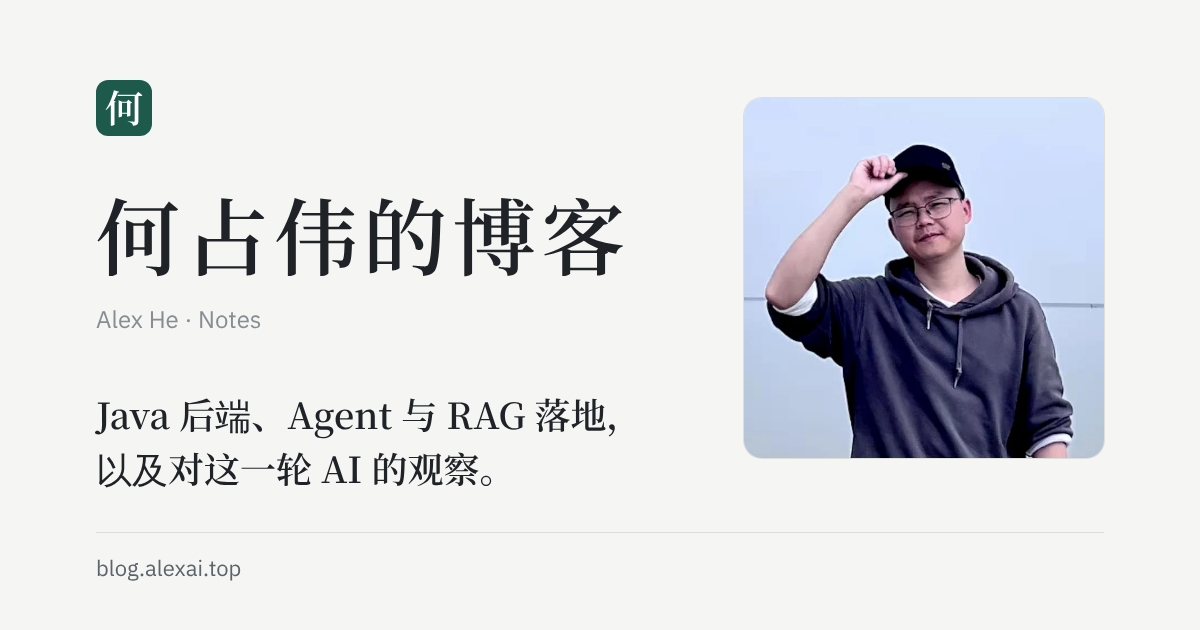
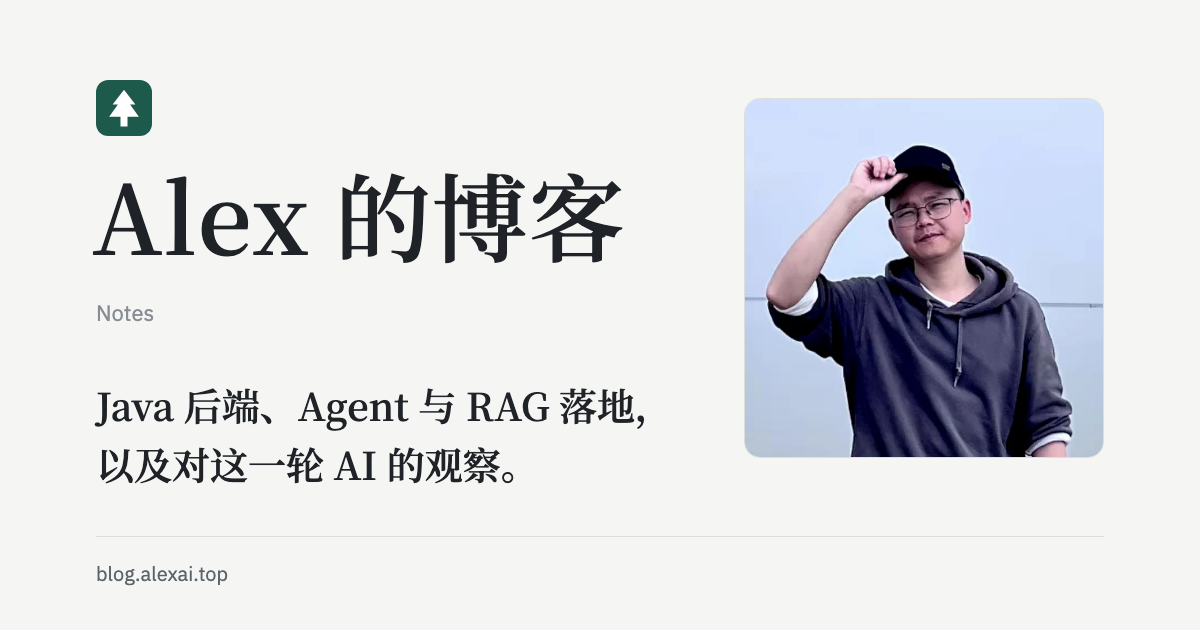
署名改为 Alex，字标换成云杉
- 站名改为「Alex 的博客」，页头、页脚、文末作者栏、RSS、meta 中的真实姓名改为 Alex
- 「何」字标换成与主站一致的云杉图形，重新生成 favicon、Apple 图标和分享图（照片保留）

diff --git a/src/pages/rss.xml.ts b/src/pages/rss.xml.ts
@@ -7,7 +7,7 @@ export async function GET(context: APIContext) {
     .sort((a, b) => b.data.pubDate.getTime() - a.data.pubDate.getTime());
 
   return rss({
-    title: "何占伟的博客",
+    title: "Alex 的博客",
     description: "Java 后端、Agent 与 RAG 落地，以及一个老程序员对这一轮 AI 的观察。",
     site: context.site || "https://blog.alexai.top",
     items: posts.map((post) => ({

diff --git a/AGENTS.md b/AGENTS.md
@@ -1,6 +1,6 @@
 # alex-blog-site
 
-Alex（何占伟）的博客 https://blog.alexai.top 。写文章、开发、发布见 `README.md`；当前状态见 `.ai/NOW.md`。
+Alex 的博客 https://blog.alexai.top 。写文章、开发、发布见 `README.md`；当前状态见 `.ai/NOW.md`。
 
 ## 规则
 

diff --git a/README.md b/README.md
@@ -1,6 +1,6 @@
 # alex-blog-site
 
-何占伟的博客。Astro 静态站，Pagefind 全文搜索。
+Alex 的博客。Astro 静态站，Pagefind 全文搜索。
 
 ## 写文章
 
